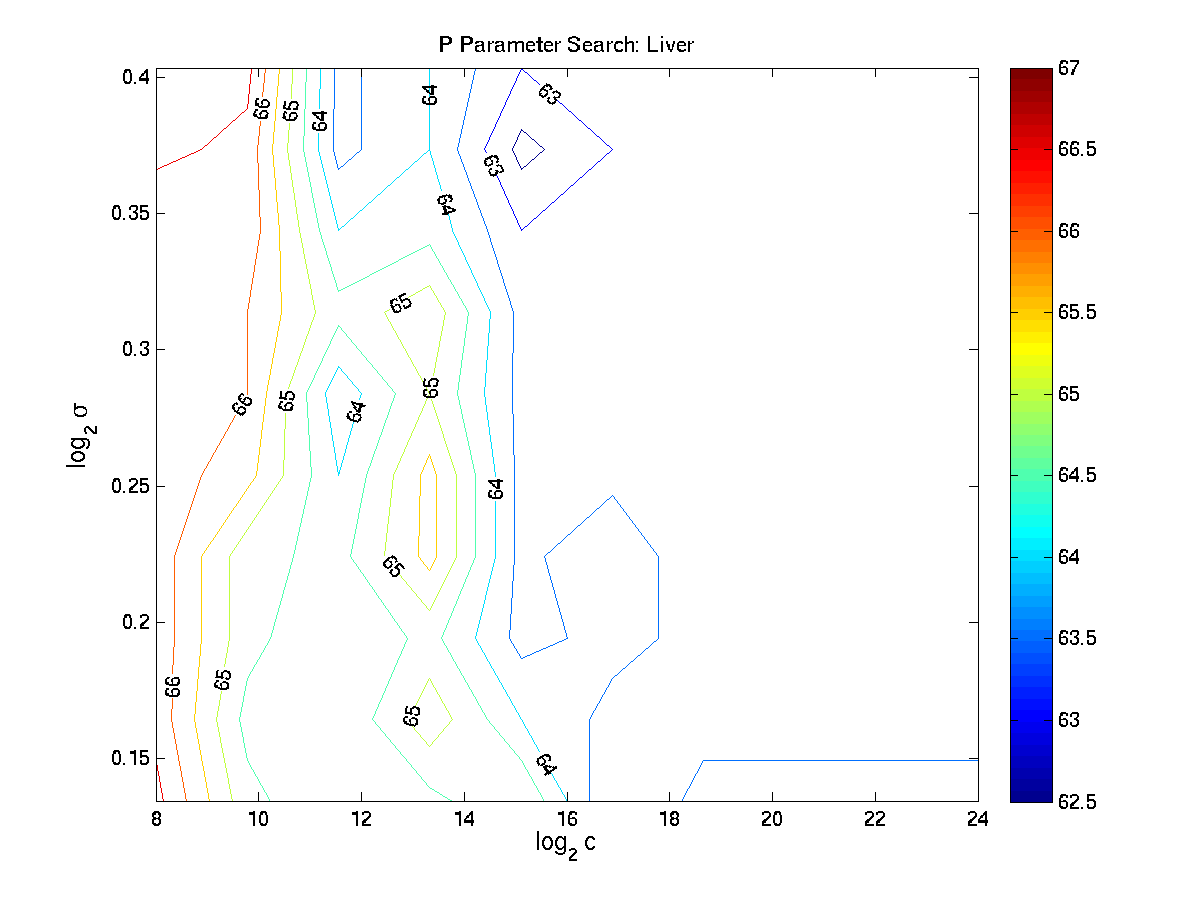
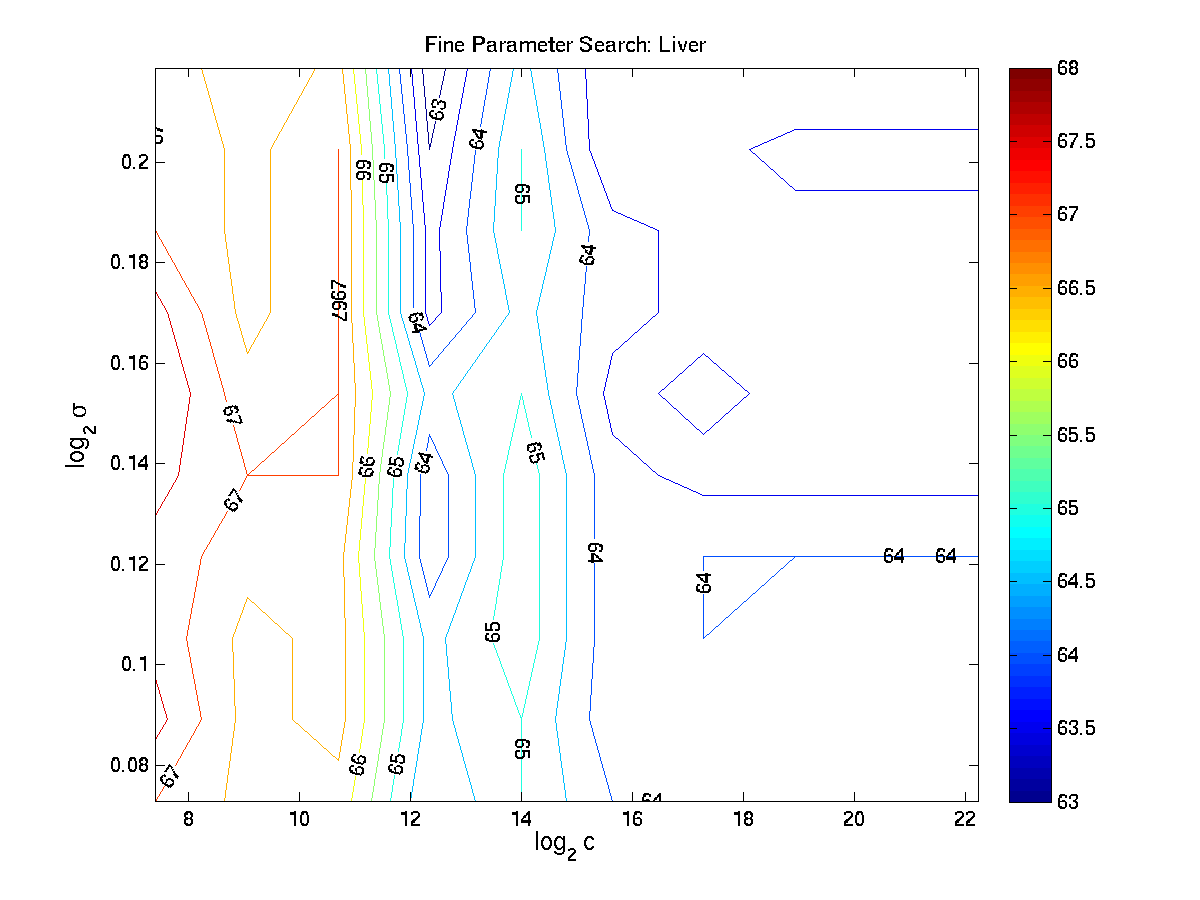
Something funky is going on in parameter search fine

diff --git a/trunk/CS-528/Project4-SVM/Part1.m b/trunk/CS-528/Project4-SVM/Part1.m
@@ -7,10 +7,10 @@ ProjectSetup
 f = fopen('GridSearchOutput.txt','w');
 
 %% Corse Grid Search
-n  = 20;
+n  = 10;
 fprintf(f,'Coarse Grid Search with %d values\n',n^2);
 fprintf(f,'Coarse Grid Search\n');
-fprintf(f,'\t\t\tDataSet\t\t\t\tAccuracy\tg\t\tc\n');
+fprintf(f,'\t\t\tDataSet\t\t\t\tminC\tmaxC\tminG\tmaxGAccuracy\tg\t\tc\n');
 c_coarse = zeros(size(dataSets));
 g_coarse = zeros(size(dataSets));
 i = 1;
@@ -20,13 +20,14 @@ for data = dataSets
     [label,inst]=libsvmread(fullfile(dataPath,dataSets{i}));
     
     % Preforming a coarse mesh (same for all)
-    c = linspace(-4,4,n);
-    g = linspace(-4,4,n);
+    c = linspace(-5,5,n);
+    g = linspace(-5,5,n);
     [cv,c_coarse(i),g_coarse(i)] = gridParam(c,g,label,inst);
   
     
     % Writing the values
-    fprintf(f,'%s\t%5.2f\t%5.2e\t%5.2e\n',dataSets{i},cv,c_coarse(i),g_coarse(i));
+    fprintf(f,'%s\t%5.3e\t%5.3e\t%5.3e\t%5.3e\t%5.3e\t%5.3e\t%5.3e\n',...
+        setNames{i},min(c),max(c),min(g),max(g),cv,c_coarse(i),g_coarse(i));
     
     % Save the figure
     title(sprintf('Coarse Parameter Search: %s',setNames{i}));
@@ -42,7 +43,7 @@ g_fine = zeros(size(dataSets));
 i = 1;
 n  = 10;
 fprintf(f,'\nFine Grid Search with %d values\n',n^2);
-fprintf(f,'\t\t\tDataSet\t\t\t\tAccuracy\tg\t\tc\n');
+fprintf(f,'\t\t\tDataSet\t\t\t\tminC\tmaxC\tminG\tmaxGAccuracy\tg\t\tc\n');
 for data = dataSets
     fprintf(1,'Processing data set: %s\n',cell2mat(dataSets(i)));
     % Reading in the data
@@ -55,12 +56,15 @@ for data = dataSets
     [cv,c_fine(i),g_fine(i)] = gridParam(c,g,label,inst);
     
     % Writing the values
-    fprintf(f,'%s\t%5.2f\t%5.2f\t%5.2f\n',dataSets{i},cv,c_fine(i),g_fine(i));
+    fprintf(f,'%s\t%5.3e\t%5.3e\t%5.3e\t%5.3e\t%5.3e\t%5.3e\t%5.3e\n',...
+        setNames{i},min(c),max(c),min(g),max(g),cv,c_fine(i),g_fine(i));
     
     % Save the figure
-    title(sprintf('P Parameter Search: %s',setNames{i}));
+    title(sprintf('Fine Parameter Search: %s',setNames{i}));
     filename = fullfile(imdir,sprintf('%s_fineSearch',setNames{i}));
     print(gcf,'-dpng',filename);
     i = i + 1;
 end
+
+%% Probably need to do validation
 fclose(f);

diff --git a/trunk/CS-528/Project4-SVM/writeup/Results.tex b/trunk/CS-528/Project4-SVM/writeup/Results.tex
@@ -4,16 +4,31 @@
 \subsection{Parmater Search}
 
 The parameter search for the optimal C and $\sigma$ parameters is shown in the contour plots of Figures \ref{fig:ParamLiver}, \ref{fig:ParamGlass} and \ref{fig:ParamGlass}.
-The optimal classifier parameters are shown in Table \ref{tab:ParamValues}.
+The optimal classifier parameters are shown for the coarse parameter search in Table \ref{tab:CoarseParamValues} and for the fine parameter search in Table \ref{tab:FineParamValues}.
 \todo{Make some quantifications and discuss the data}
 \begin{table}[ht!]
-\caption{Optimal Classifier Parameters}
-\label{tab:ParamValues}
+\caption{Coarse Optimal Classifier Parameters}
+\label{tab:CoarseParamValues}
 \begin{tabular}{c c c c c c c c}
 \hline
 Data Set & $C_{min}$ & $C_{max}$ & $\sigma_{min}$ & $\sigma_{max}$ & $C$ & $\sigma$ & $\epsilon$ \\
 \hline
-
+Glass &	-5.0 &  5.0 &	-5.0 &	5.0 & 32.0 &	1.47 & 73 \\
+Liver &	-5.0 &	5.0 &	-5.0 &	5.0 & 14.8 &	0.146 & 74 \\
+Vowel &	-5.0 &	5.0 &	-5.0 &	5.0 & 32.0 &	6.85  & 99 \\
+\hline
+\end{tabular}
+\end{table}
+\begin{table}[ht!]
+\caption{Fine Optimal Classifier Parameters}
+\label{tab:FineParamValues}
+\begin{tabular}{c c c c c c c c}
+\hline
+Data Set & $C_{min}$ & $C_{max}$ & $\sigma_{min}$ & $\sigma_{max}$ & $C$ & $\sigma$ & $\epsilon$ \\
+\hline
+Glass & 16.0 &	48.0 &	0.735 & 2.20 & 2.815e+14	& 2.09 & 70.6 \\
+Liver & 7.41 &	22.2 &	0.0729 & 0.218 &	1.697e+02 &	1.11 & 68.0 \\
+Vowel & 16.0 &	48.0 & 3.43 & 10.3 &	2.815e+14 &	10.7 & 96.9 \\
 \hline
 \end{tabular}
 \end{table}

diff --git a/trunk/CS-528/Project4-SVM/SVMAdaPredict.m b/trunk/CS-528/Project4-SVM/SVMAdaPredict.m
@@ -1,7 +1,8 @@
-function [predict_label] =SVMAdaPredict(inst, ensambleSVM,alpha)
+function [predict_label,accuracy] =SVMAdaPredict(label, inst, ensambleSVM,alpha)
 % [predict_label, accuracy, dec_values] = SVMWeightPredictict(weight, label,inst, model)
 % Computes the perfromance of an esamble method of SVM's
 % INPUTS:
+%   label  - the label of the class (or zeros)
 %   inst   - the data point (vector)
 %   ensabmleSVM - the cell array of SVM models (see AdaBoostM1)
 %   alpha       - the weight of each member of the ensamble 
@@ -17,12 +18,10 @@ end
 predict_label = zeros(size(inst));
 
 %% Looping through all of the classifiers
-% Since we do not know the class, we must provide an emptpy array
-fakeLabels = zero(size(inst));
 for i=1:numuel(ensambleSVM)
     
     % Classification
-    [predict,~,dec_value] = svmpredict(fakeLabels,inst,ensambleSVM{i});
+    [predict,accuracy,dec_value] = svmpredict(label,inst,ensambleSVM{i});
     
     % Weighting scheme
     

diff --git a/trunk/CS-528/Project4-SVM/writeup/Methods.tex b/trunk/CS-528/Project4-SVM/writeup/Methods.tex
@@ -1,14 +1,14 @@
 \section{Methods}
 \label{sec:Methods}
 
-\section{Support Vector Machines}
+\subsection{Support Vector Machines}
 
 Suport vector machines were implemented with the libsvm library \cite{li_adaboost_2008}.
 Radial basis functions were used as the kernal space for the SVM to create RBFSVM.
 There are then two parameters that need to be determined, $C$ the regularization paramater and $\sigma$ the width of the kernal.
 These parameters where determined by a grid search of the parameter space.
 
-\section{AdaBoost}
+\subsection{AdaBoost}
 
 AdaBoost was implemented as an ensamble of support vector machines by maintaining a weight distribution of the misclassificaiton error over all of the training examples.
 At each cycle $t$ AdaBoost provides the learning algorthim with training examples $\vec{x}$ and a weight distriubtion $w$ (initialized uniformly).

diff --git a/trunk/CS-528/Project4-SVM/SVMWeightPredict.m b/trunk/CS-528/Project4-SVM/SVMWeightPredict.m
@@ -1,6 +1,6 @@
 function [predict_label, accuracy, dec_values,C,order] =  ...
     SVMWeightPredict(weight, label,inst, model)
-% [predict_label, accuracy, dec_values] = SVMWeightPredictict(weight, label,inst, model)
+% [predict_label, accuracy, dec_values,C,Order] = SVMWeightPredictict(weight, label,inst, model)
 % Computes the predicted class and accuracy of an SVM model. The accuracy
 % is weighted by the weight of that point (Table 2, X. Li et al). LIBSVM is
 % used to calculate the predicted label, accuracy, and probability /

diff --git a/trunk/CS-528/Project4-SVM/ProjectSetup.m b/trunk/CS-528/Project4-SVM/ProjectSetup.m
@@ -1,6 +1,7 @@
 %% Adding the data files
 dataPath='data';
 dataSets={'glass_scale_train.txt','liver-disorders_scale_train.txt','vowel_scale_train.txt'};
+testSets={'glass_scale_test.txt','liver-disorders_scale_test.txt','vowel_scale_test.txt'};
 setNames={'Glass','Liver','Vowel'};
 fprintf('The data sets are located in %s\n',dataPath);
 fprintf('The sets are named as:\n');
